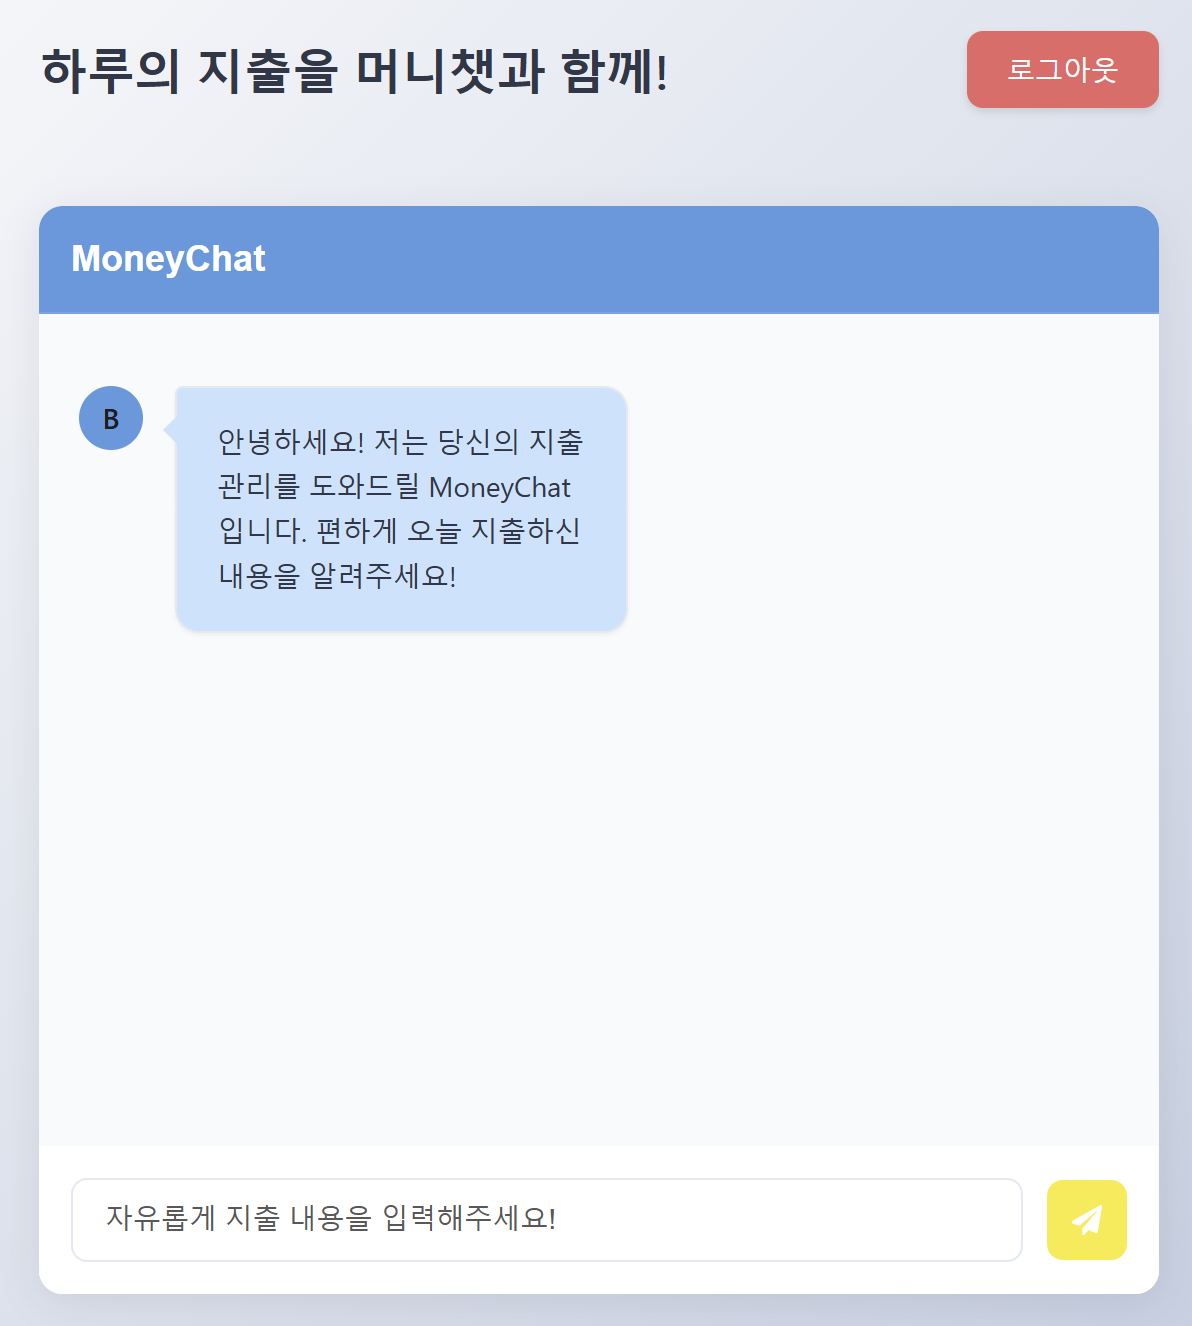
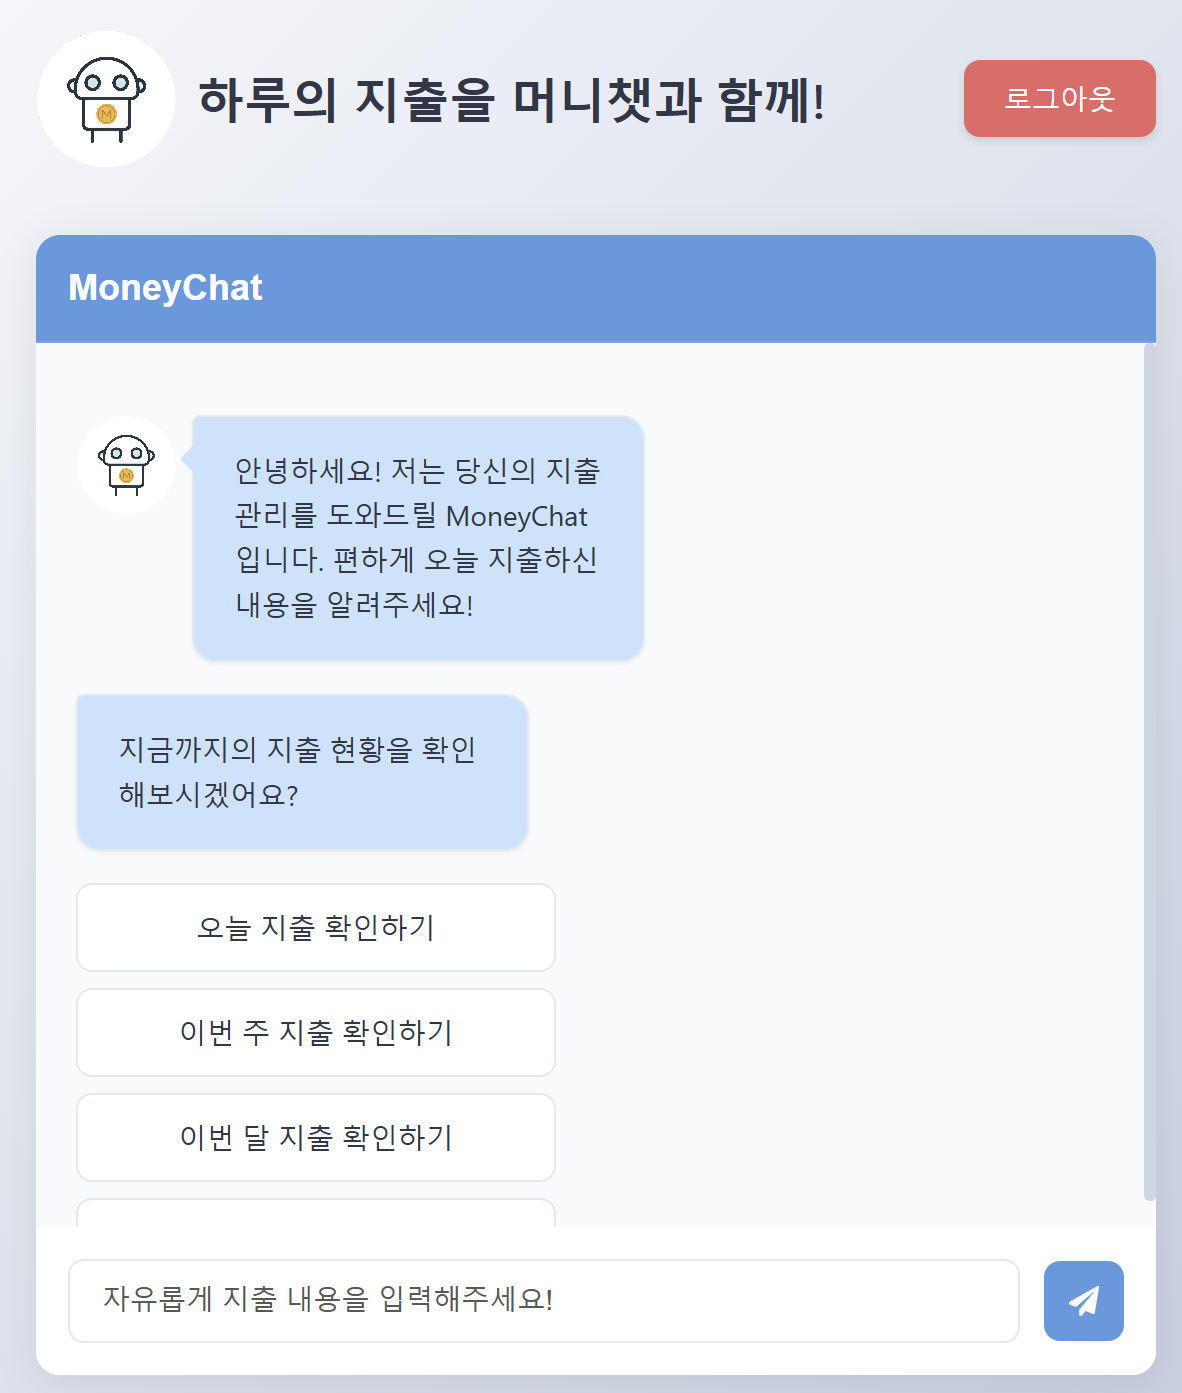
README 이미지 수정

diff --git a/README.md b/README.md
@@ -1,4 +1,8 @@
-# 💰 머니챗(MoneyChat)
+# 💰 머니챗(MoneyChat) 
+
+<div align="center">
+  <img src="./moneychat-frontend/public/logo.png" width="100" alt="MoneyChat Logo">
+</div>
 
 > 일상적인 대화로 간편하게 기록하는 AI 가계부 챗봇
 
